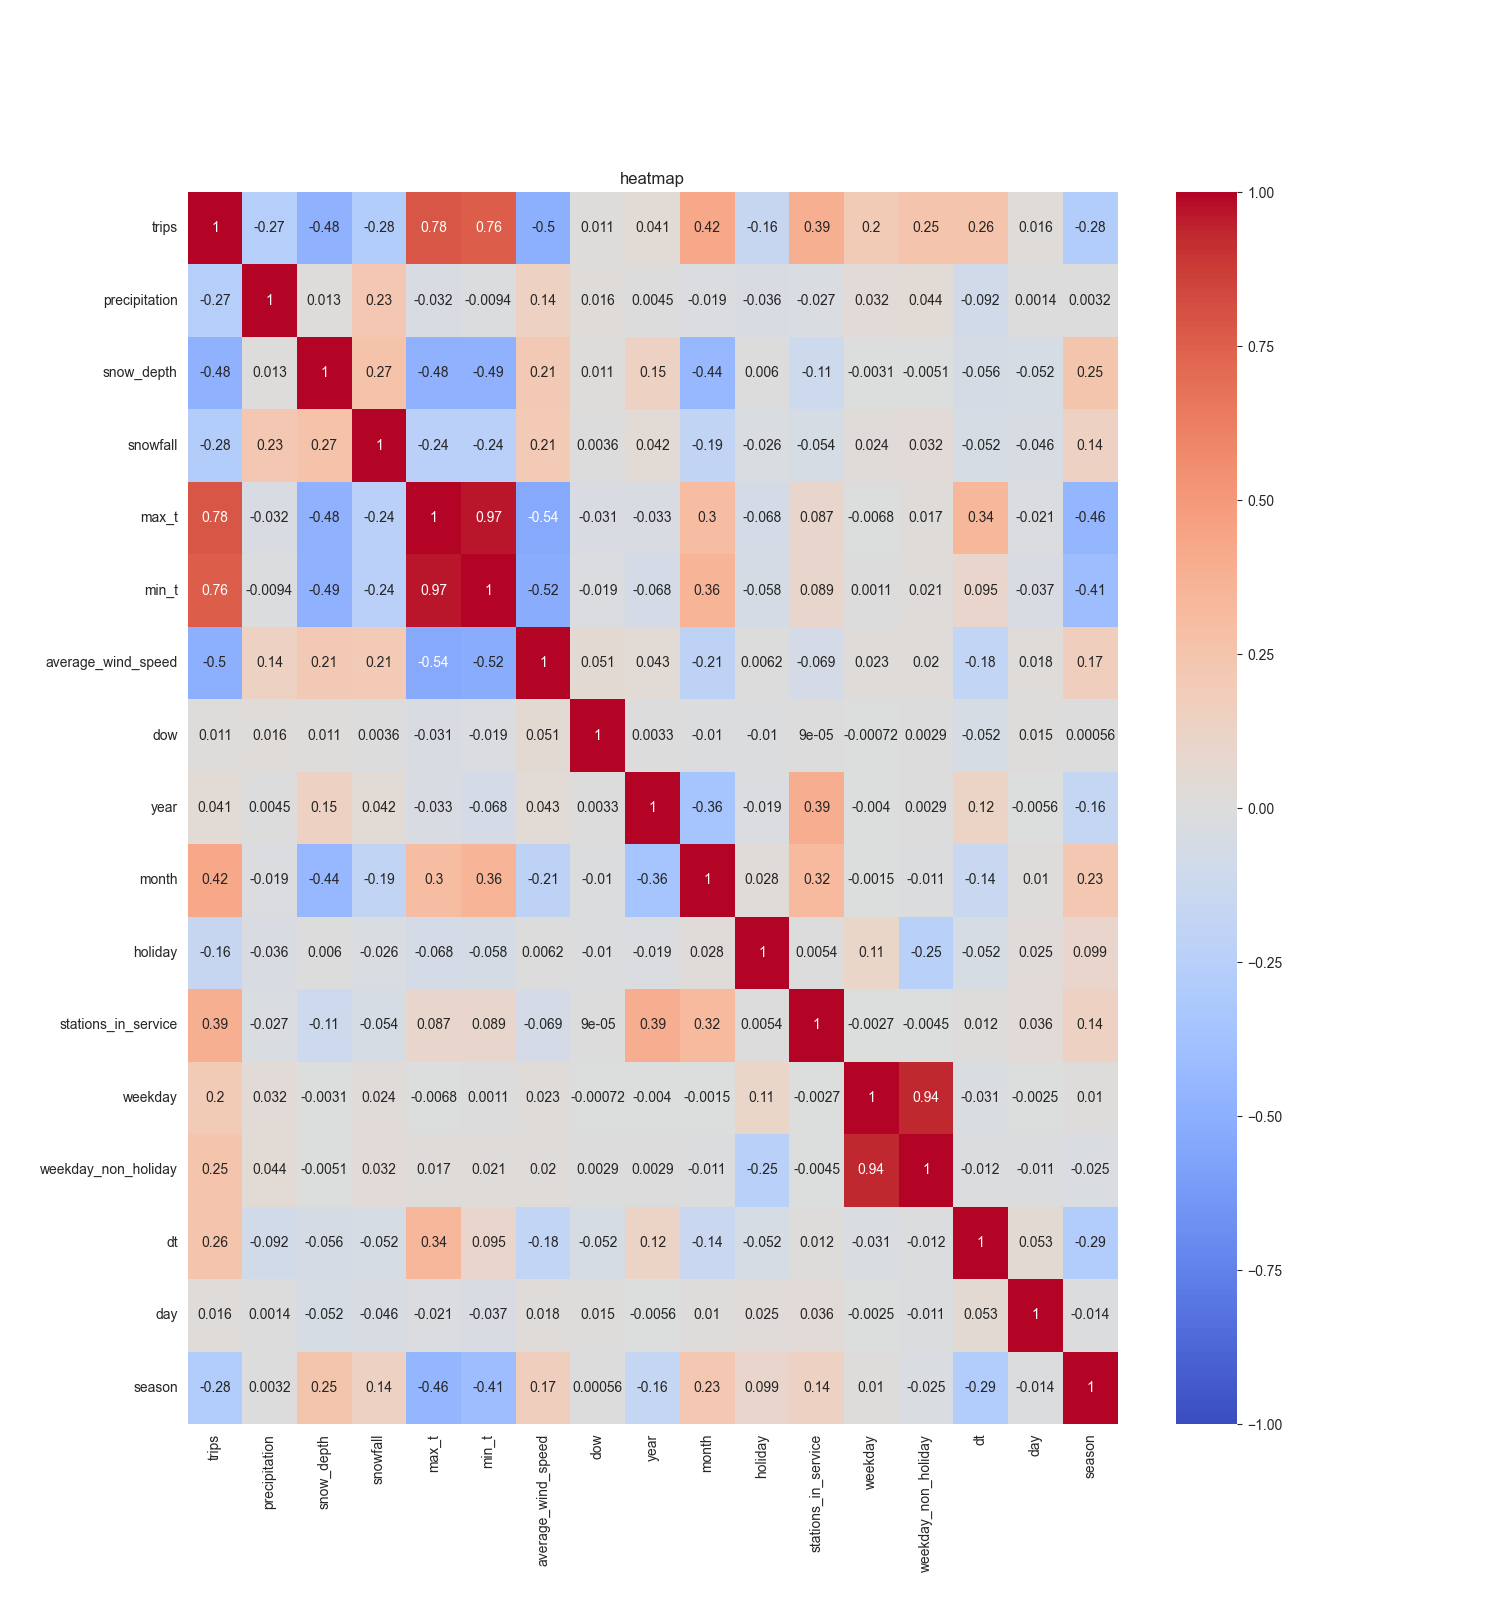
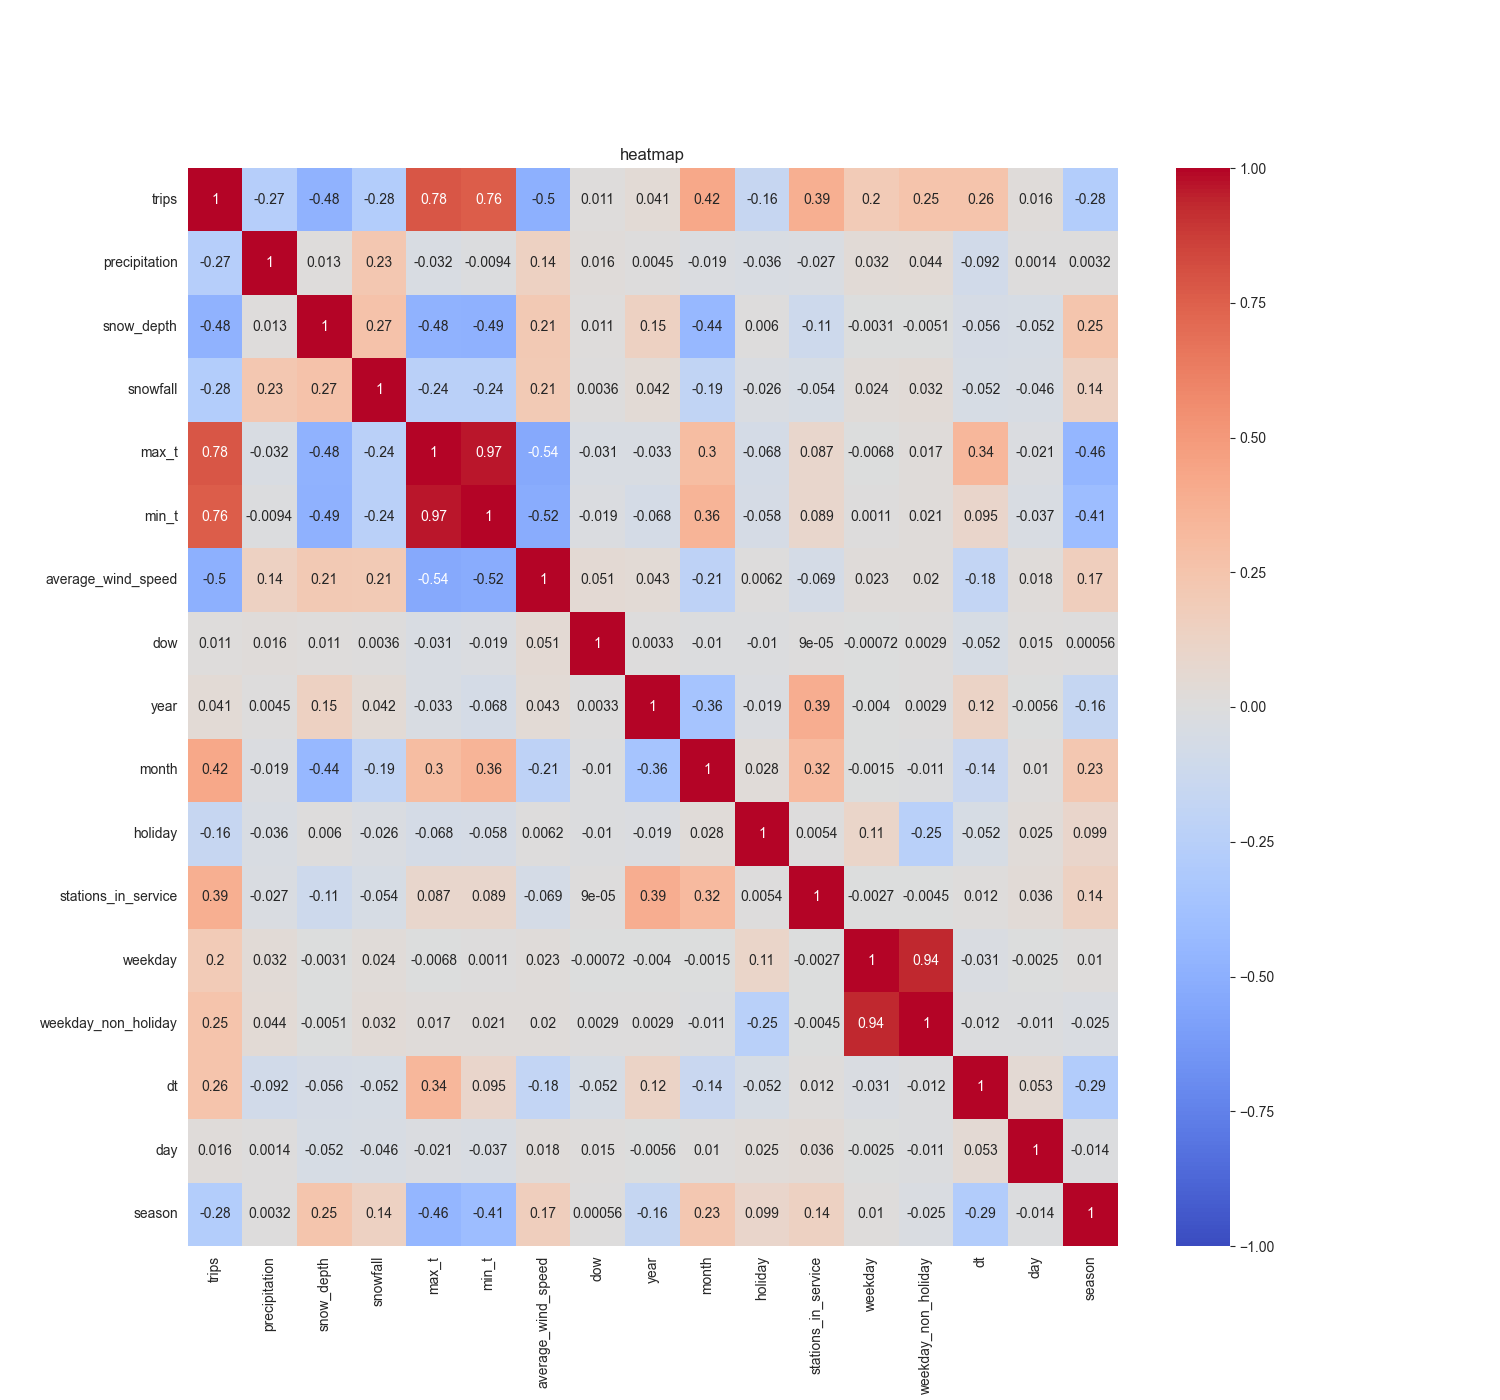
非线性关系分析

diff --git a/data_analysis.py b/data_analysis.py
@@ -18,22 +18,22 @@ data_name = 'daily_citi_bike_trip_counts_and_weather'
 data = pd.read_csv('./data/' + data_name + '.csv',
                    parse_dates=['date'],
                    index_col=['date'],
-                  #  usecols=['date',
-                  #           'trips',
-                  #           'precipitation',
-                  #           'snowfall',
-                  #           'max_t',
-                  #           'min_t',
-                  #           'average_wind_speed',
-                  #           'dow',
-                  #           'holiday',
-                  #           'stations_in_service',
-                  #           'weekday',
-                  #           'weekday_non_holiday',
-                  #           'month',
-                  #           'dt',
-                  #           'day',
-                  #           'year']
+                #    usecols=['date',
+                #             'trips',
+                #             'precipitation',
+                #             'snowfall',
+                #             'max_t',
+                #             'min_t',
+                #             'average_wind_speed',
+                #             'dow',
+                #             'holiday',
+                #             'stations_in_service',
+                #             'weekday',
+                #             'weekday_non_holiday',
+                #             'month',
+                #             'dt',
+                #             'day',
+                #             'year']
                    )
 
 # data = pd.read_csv('./data/' + data_name + '.csv',
@@ -181,11 +181,19 @@ plt.show()
 
 # 分析所有特征与骑行次数的关系
 corr = data.corr()
-plt.figure(figsize=(15, 15))
+plt.figure(figsize=(15, 14))
 sns.heatmap(corr, annot=True, cmap='coolwarm', vmin=-1, vmax=1)
 plt.title("heatmap")
 plt.savefig('./output/heatmap.png')
 plt.show()
+
+# 分析所有特征与骑行次数的关系2
+# corr = data[['precipitation','snowfall','max_t','min_t','average_wind_speed','dow','holiday','stations_in_service','weekday','weekday_non_holiday','month','dt','day','year','trips']].corr()
+# plt.figure(figsize=(14, 14))
+# sns.heatmap(corr, annot=True, cmap='coolwarm', vmin=-1, vmax=1)
+# plt.title("heatmap")
+# plt.savefig('./output/heatmap2.png')
+# plt.show()
 
 # 按时间显示运营中的站点数量
 # plt.figure(figsize=(15,5))
@@ -303,7 +311,8 @@ for i, value in enumerate(holiday_means):
     y_pos = data[data['holiday'] == i]['trips'].max() + 1000
     plt.text(i, y_pos, f'Mean:\n{int(value)}', 
              horizontalalignment='center', 
-             bbox=dict(facecolor='white', alpha=0.8, edgecolor='none'))
+             bbox=dict(facecolor='white', alpha=0.8, edgecolor='none'),
+             rotation=0)  # 设置水平方向
 
 # weekday分布及其与trips的关系
 plt.subplot(132)
@@ -314,7 +323,8 @@ for i, value in enumerate(weekday_means):
     y_pos = data[data['weekday'] == i]['trips'].max() + 1000
     plt.text(i, y_pos, f'Mean:\n{int(value)}', 
              horizontalalignment='center',
-             bbox=dict(facecolor='white', alpha=0.8, edgecolor='none'))
+             bbox=dict(facecolor='white', alpha=0.8, edgecolor='none'),
+             rotation=0)  # 设置水平方向
 
 # weekday_non_holiday分布及其与trips的关系
 plt.subplot(133)
@@ -325,7 +335,8 @@ for i, value in enumerate(weekday_non_holiday_means):
     y_pos = data[data['weekday_non_holiday'] == i]['trips'].max() + 1000
     plt.text(i, y_pos, f'Mean:\n{int(value)}', 
              horizontalalignment='center',
-             bbox=dict(facecolor='white', alpha=0.8, edgecolor='none'))
+             bbox=dict(facecolor='white', alpha=0.8, edgecolor='none'),
+             rotation=0)  # 设置水平方向
 
 plt.tight_layout()
 plt.savefig('./output/holiday_features_analysis.png')
@@ -392,4 +403,59 @@ plt.legend(weekday_non_holiday_counts.index, loc='best')
 plt.tight_layout()
 plt.savefig('./output/holiday_features_pie_charts.png')
 plt.show()
+
+# 分析分类变量的非线性关系
+plt.figure(figsize=(24, 6))
+
+# dow的箱线图分析
+plt.subplot(141)
+sns.boxplot(x='dow', y='trips', data=data)
+plt.title('Dow vs Trips (Box Plot)')
+
+# holiday的箱线图分析
+plt.subplot(142)
+sns.boxplot(x='holiday', y='trips', data=data)
+plt.title('Holiday vs Trips (Box Plot)')
+
+# 分析连续变量的非线性关系
+plt.subplot(143)
+sns.regplot(x='day', y='trips', data=data, scatter_kws={'alpha':0.5}, 
+            order=2, line_kws={'color': 'red'})
+plt.title('Day vs Trips (Polynomial Fit)')
+
+plt.subplot(144)
+sns.regplot(x='year', y='trips', data=data, scatter_kws={'alpha':0.5}, 
+            order=2, line_kws={'color': 'red'})
+plt.title('Year vs Trips (Polynomial Fit)')
+
+plt.tight_layout()
+plt.savefig('./output/nonlinear_analysis.png')
+plt.show()
+
+# 计算多项式特征与trips的相关性
+poly = PolynomialFeatures(degree=2, include_bias=False)
+day_poly = poly.fit_transform(data[['day']])
+year_poly = poly.fit_transform(data[['year']])
+
+# 多项式回归
+day_reg = LinearRegression().fit(day_poly, data['trips'])
+year_reg = LinearRegression().fit(year_poly, data['trips'])
+
+print("\n多项式回归R²值：")
+print(f"Day polynomial R²: {day_reg.score(day_poly, data['trips']):.4f}")
+print(f"Year polynomial R²: {year_reg.score(year_poly, data['trips']):.4f}")
+
+# 计算互信息分数
+print("\n互信息分数（反映非线性相关性）：")
+print("互信息强度分级参考：")
+print("0-0.1: 极弱相关或无相关")
+print("0.1-0.3: 弱相关")
+print("0.3-0.5: 中等相关")
+print("0.5-0.8: 强相关")
+print("0.8-1.0: 极强相关")
+print("\n各特征的互信息分数：")
+print(f"Dow MI: {mutual_info_score(data['dow'], pd.qcut(data['trips'], q=10, labels=False, duplicates='drop')):.4f}")
+print(f"Holiday MI: {mutual_info_score(data['holiday'], pd.qcut(data['trips'], q=10, labels=False, duplicates='drop')):.4f}")
+print(f"Day MI: {mutual_info_score(pd.qcut(data['day'], q=10, labels=False, duplicates='drop'), pd.qcut(data['trips'], q=10, labels=False, duplicates='drop')):.4f}")
+print(f"Year MI: {mutual_info_score(pd.qcut(data['year'], q=10, labels=False, duplicates='drop'), pd.qcut(data['trips'], q=10, labels=False, duplicates='drop')):.4f}")
 
